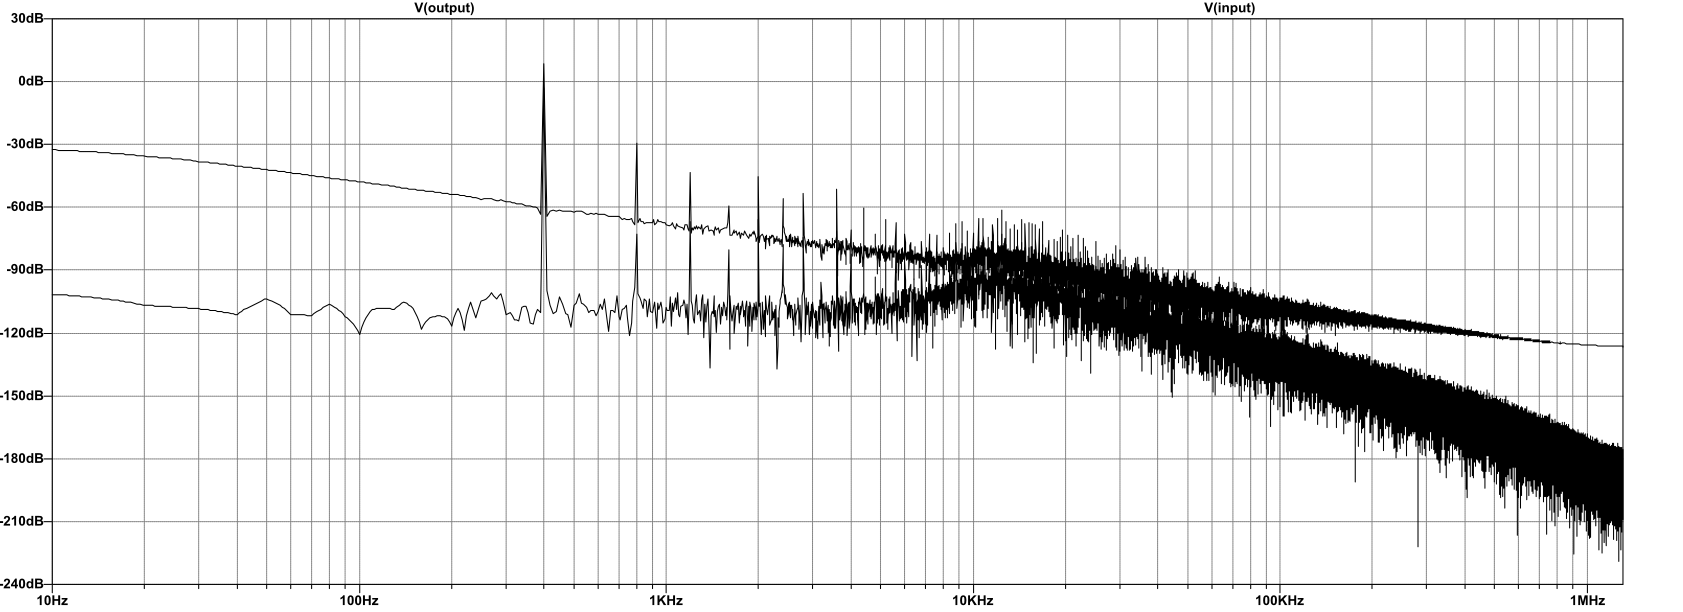
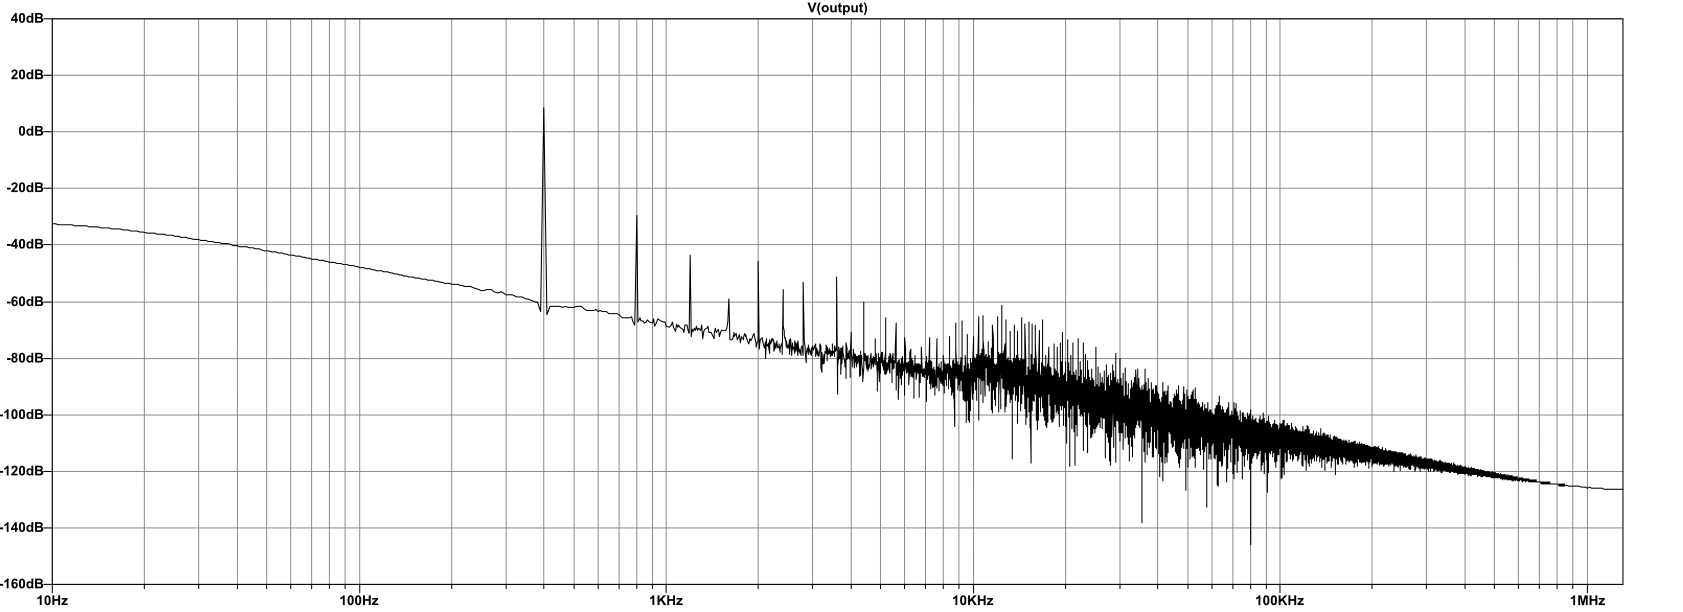
Remove input from FFT

diff --git a/posts/Five-BJT-Footlong.html b/posts/Five-BJT-Footlong.html
@@ -33,7 +33,7 @@ img-url: /img/Five-BJT-Footlong-Amplfier-Schematic-V1.9.png
             <tbody>
                 <tr><td>3</td><td>NPN Transistor</td><td>One acts as our driver (Q1) | The other two form a darlington transistor in the output stage (Q2, Q3)</td></tr>
                 <tr><td>2</td><td>PNP Transistor</td><td>Two PNP transistors connected to make a single darlington transistor (Q4, Q5)</td></tr>
-                <tr><td>4</td><td>Rectifier Diode</td><td>I used the 1N4007 but a wide variety of rectifier diodes would work (1N400x, 1N4148, and diodes with similar voltage drop)</td></tr>
+                <tr><td>4</td><td>Rectifier Diode</td><td>I used the 1N4007 but a wide variety of rectifier diodes would work (1N400x, 1N4148, and diodes with a similar voltage drop)</td></tr>
                 <tr><td>1</td><td>4700μf Capacitor</td><td>C2 couples the output and output load (Block DC to speaker)</td></tr>
                 <tr><td>1</td><td>1000μf Capacitor</td><td>C3 provides power in the circuit to anything that needs it IMMEDIATELY</td></tr>
                 <tr><td>1</td><td>470μf Capacitor</td><td>C1 couples the input and driver circuit (Block DC to input device)</td></tr>
@@ -234,10 +234,10 @@ img-url: /img/Five-BJT-Footlong-Amplfier-Schematic-V1.9.png
                     but I do have LTSpice (a <a href="https://www.analog.com/en/design-center/design-tools-and-calculators/ltspice-simulator.html" class="text-link" data-toggle="tooltip" title="Main Page - LTSpice">free circuit simulation software</a>) and some determination.
                 After building up the circuit and running the ".tran 100ms" command, 
                     I was greeted with a smooth sine-wave on the output, meaning distortion was relatively low! Hurray!
-                The input peak-to-peak voltage is 2v, with a current of 200µA.
+                The input peak-to-peak voltage is 2v, with a current of ~200µA.
                 The output voltage swing (peak-to-peak voltage) is around 7.5v, while the current sat right above at 1A. 
                 Luckily, P = IV, (you could also use P = V²/R successfully). 
-                The input wattage works out to be 400µW, which is <strong>very</strong> small.
+                The input wattage works out to be just under 400µW, which is <strong>very</strong> small.
                 To calculate the output wattage of our Five-BJT (not-so) Footlong amplifier, we just multiply those two output measurements together!
                 One of them being 1, that makes this very easy, giving us (~7.5v * ~1A) = ~7.5W. 
                 That means the power gain of the amplifier works out to (roughly) 18750. That's a lot of damage.
@@ -340,7 +340,7 @@ img-url: /img/Five-BJT-Footlong-Amplfier-Schematic-V1.9.png
                     <div class="card-header"><a class="text-link" href="/img/Five-BJT-Footlong-V1.9.png" data-toggle="tooltip" title="Fast Fourier Transform - Lensor Radii">
                         <img class="img-fluid pic-sm shadow" src="/img/Five-BJT-Footlong-V1.9.png" alt="FFT of the circuit built in LTSpice Circuit Simulator" /></a>
                     </div>
-                    <div class="card-body p-2"><cite><small>LTSpice Simulation FFT (Distortion Analysis) [Input Below, Output Above]</small></cite></div>
+                    <div class="card-body p-2"><cite><small>LTSpice Simulation FFT (Distortion Analysis)</small></cite></div>
                 </div>
             </div>
         </div>
